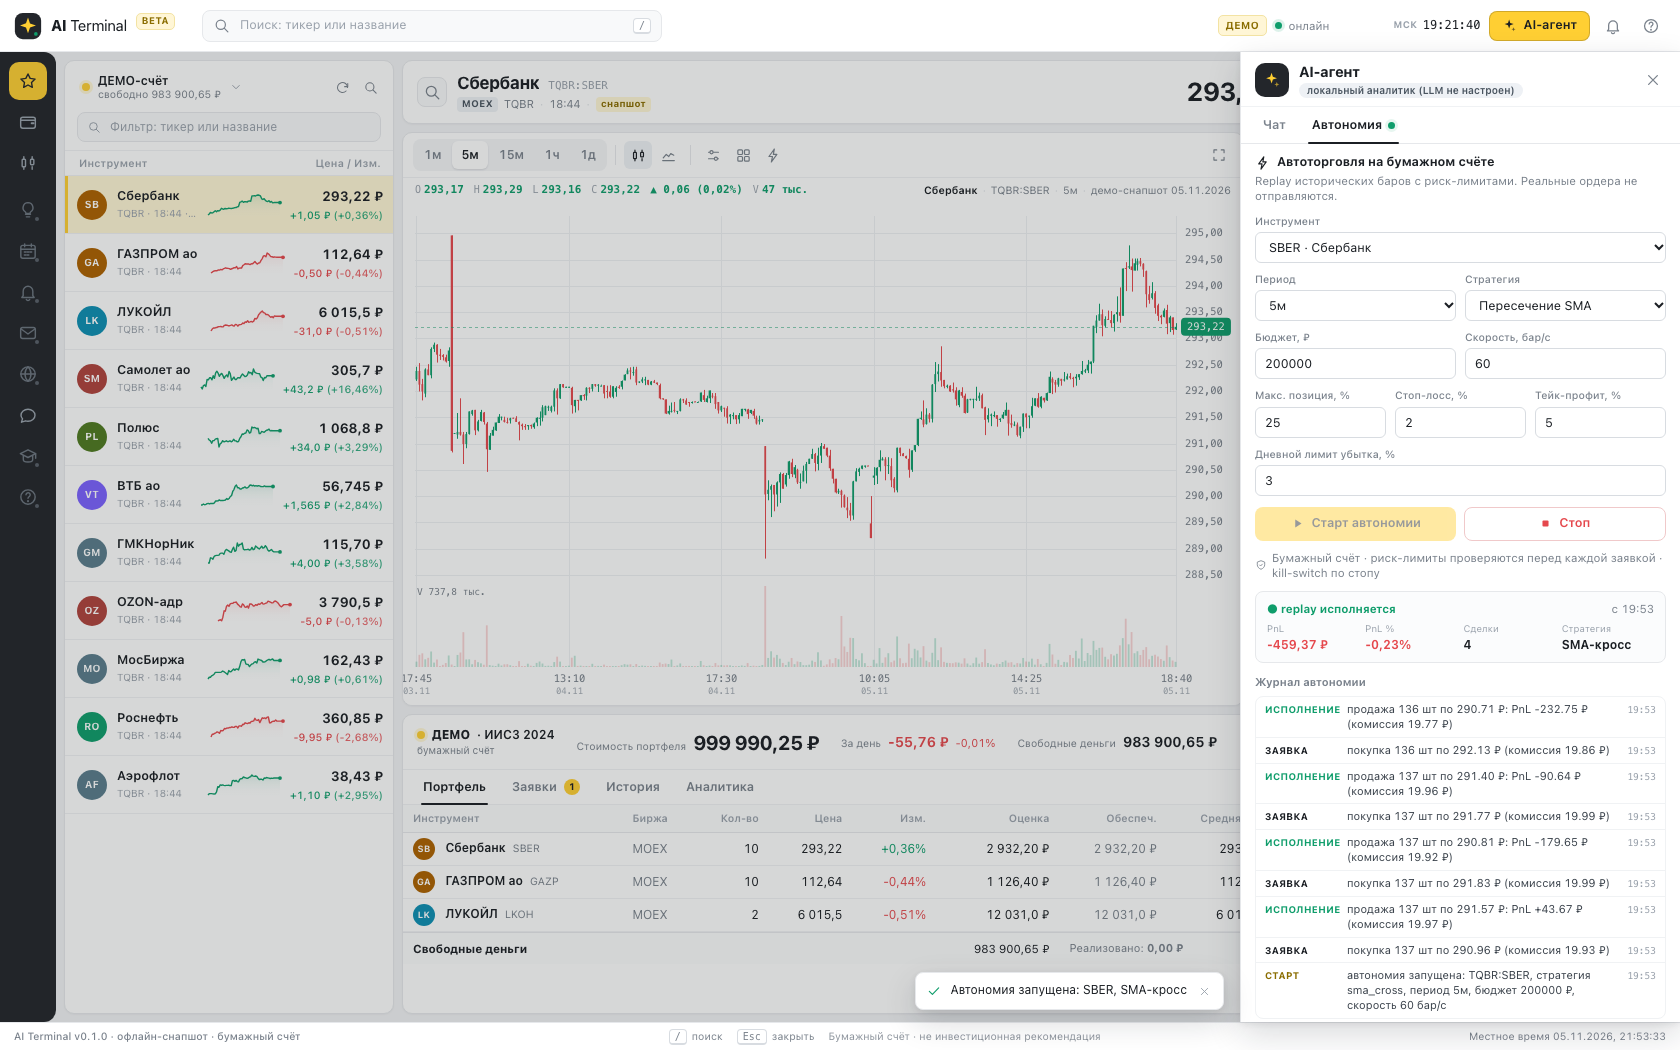
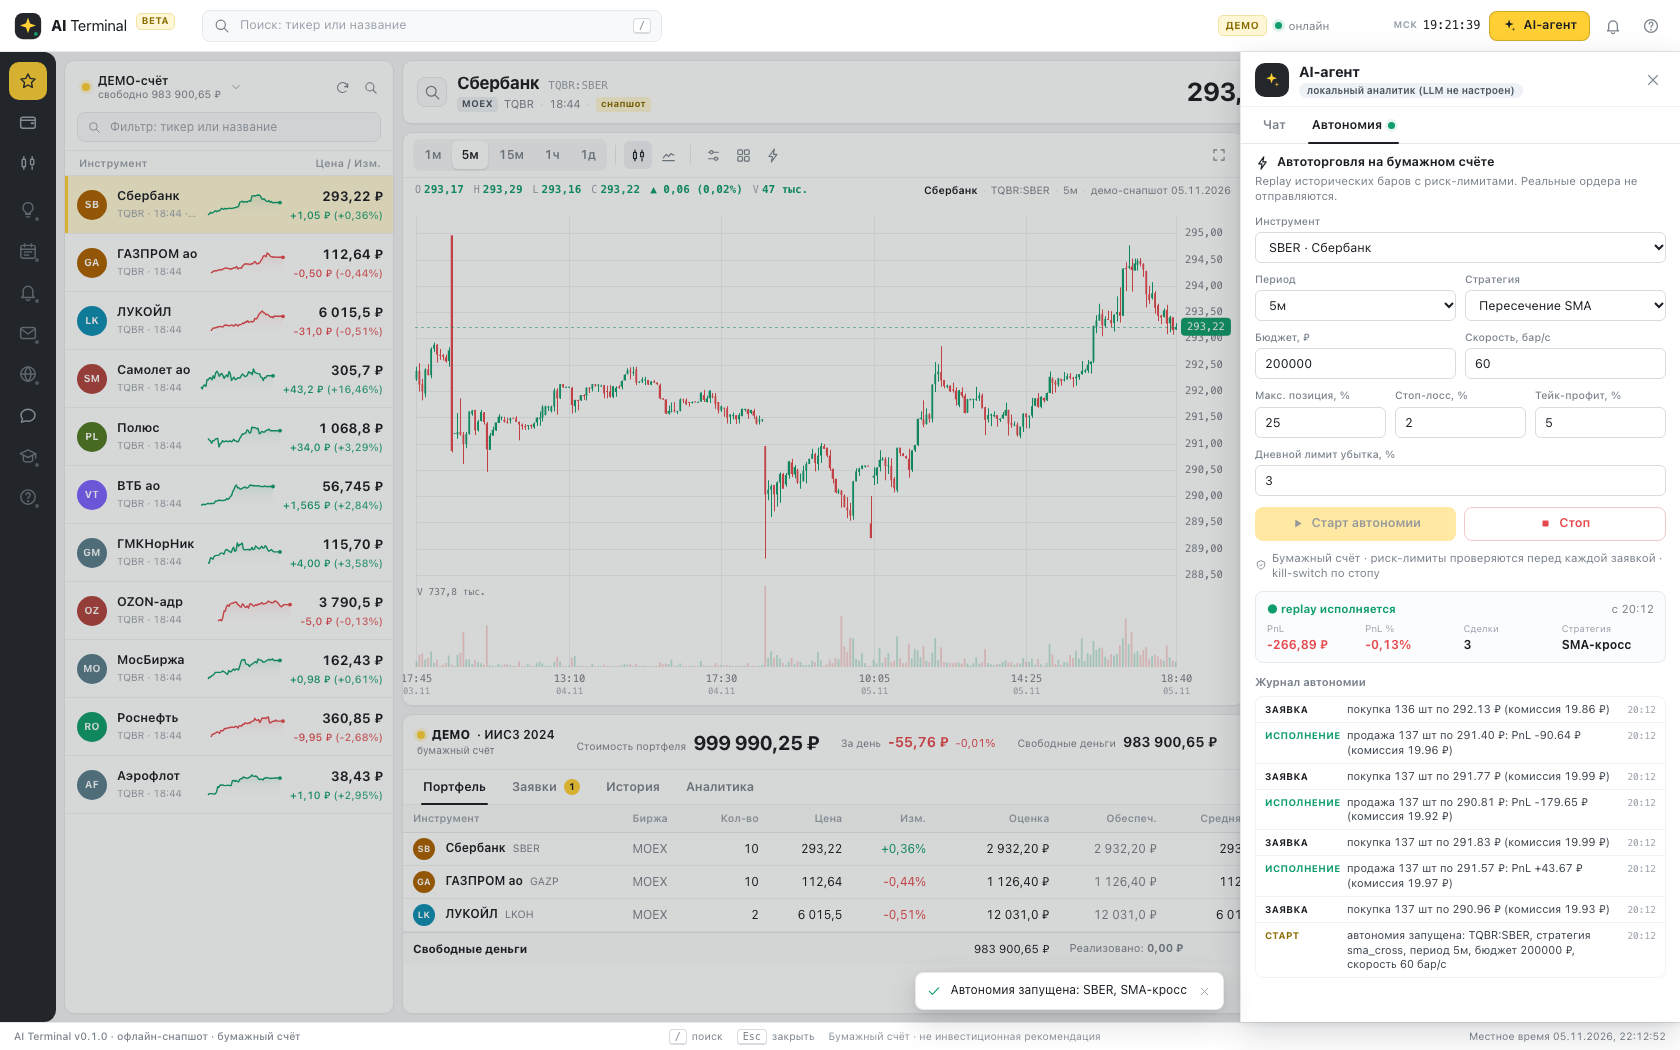
test(terminal): refresh acceptance screenshots after review fixes
Re-ran the CDP acceptance scenario on the fixed backend: paper limits fill at
touch, autonomy stops at the next open, natural finish marks to market; new
screenshots + contract notes for those semantics.

Changed region(s): [[0.7429, 0.6705, 0.9595, 0.9752]]

diff --git a/docs/ai-terminal/ARCHITECTURE.md b/docs/ai-terminal/ARCHITECTURE.md
@@ -334,8 +334,9 @@ func (b *Broker) Snapshot() Snapshot
 ```
 
 Правила исполнения: market buy = ask (нет ask → last), market sell = bid (нет bid → last),
-проскальзывание 0 (упрощение); limit исполняется, если marketable на момент постановки, иначе
-висит и исполняется в `OnQuote` при касании (buy: ask ≤ price; sell: bid ≥ price);
+проскальзывание 0 (упрощение); limit исполняется по **цене касания** (buy по ask, sell по bid),
+если marketable на момент постановки, иначе висит и исполняется в `OnQuote` при касании
+(buy: ask ≤ price; sell: bid ≥ price);
 частичных исполнений в итерации 1 нет (`Filled = Qty` при fill). Комиссия `Fee = |price*qty| *
 FeeBps/10000` списывается/учитывается в `Fees`, `RealizedPnL` — по средней цене. Продажа больше
 позиции — reject (`short not supported`). Кэш не может стать отрицательным — reject.
@@ -714,6 +715,11 @@ func (e *Engine) Hints(ctx context.Context, symbol string, periodSec int) (Marke
   шлёт SSE-события `agent`. Остановка — ручная, kill-switch (`POST /api/agent/autonomy action=stop`)
   и автоматическая при достижении `DailyLossPct` (статус `stopped_by_risk`, лог).
 - `Live:true` → ошибка `live autonomy is not implemented in iteration 1`.
+- Автостоп по `DailyLossPct` решается на закрытии бара, но исполняется по open следующего бара
+  (на последнем баре — по close с пометкой в логе).
+- На естественном завершении replay открытая позиция **не закрывается фиктивно**: PnL считается
+  mark-to-market по последнему обработанному бару, `Trades` не растёт, в лог пишется
+  `mark_to_market`; `finalEquity = cash + qty*lastPrice`.
 - После Stop статус сохраняет итоговые PnL/лог для UI.
 
 ## 10. Пакет `terminal/api` (HTTP/JSON/SSE)

diff --git a/docs/ai-terminal/README.md b/docs/ai-terminal/README.md
@@ -122,8 +122,8 @@ go test -race ./terminal/... ./cmd/terminal/ ./tools/llm-stub/
   `feat/ai-terminal`; кросс-сборки терминала `CGO_ENABLED=0 linux/amd64` и `darwin/arm64` — OK.
 - **Офлайн-демо**: acceptance-прогон UI через CDP на `:8090` — 11 инструментов, реальный ответ
   локального аналитика (3 tool-call, карточка бэктеста, рекомендация), overlay «Показать на
-  графике», запуск/остановка автономии (7 строк лога, PnL), вкладка «Аналитика», JS-консоль без
-  ошибок; HTTP/SSE-эндпоинты, paper-заявки и портфель проверены.
+  графике», запуск/остановка автономии (журнал заявок/исполнений, PnL, MTM на завершении), вкладка
+  «Аналитика», JS-консоль без ошибок; HTTP/SSE-эндпоинты, paper-заявки и портфель проверены.
 - **Живой read-only режим**: `-mode live` против демо-сервера TRANSAQ — `connected=true`,
   живые котировки/стаканы (source=live), история 5м/700 баров, `serverTime`=UTC,
   `exchangeTZ=Europe/Moscow`; реальные ордера заблокированы (403/501).
